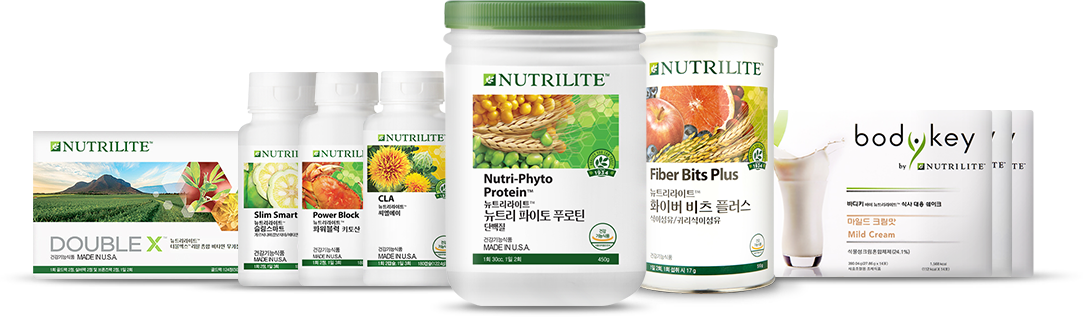
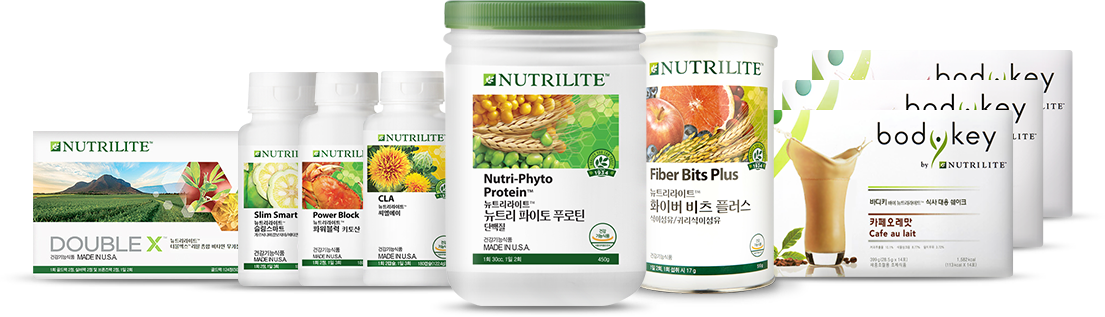
바디키 베이직 세트 수정

diff --git a/_ui/responsive/html/product/nutrition-health/bodykey/NU_2712_10_Bodykey_Basic_Set.html b/_ui/responsive/html/product/nutrition-health/bodykey/NU_2712_10_Bodykey_Basic_Set.html
@@ -79,16 +79,50 @@
 												<div class="com-tit">제품 <span class="green02">구성</span></div>
 
 												<div class="pcomp-area">
-													<div class="pcomp-list deaf01">
+													<div class="pcomp-list deaf03">
 														<div class="comp-info">
 															<div class="comp-box">
 																<div class="code-im">
-																	<span><img src="/_ui/responsive/theme-blue/images/akl_product/nutrition-health/product_bottom_2952_bodykeyshake_mixed_berry.png" alt="바디키 식사대용 쉐이크(믹스베리맛) 상품 이미지"></span>
+																	<span><img src="/_ui/responsive/theme-blue/images/akl_product/nutrition-health/product_bottom_2712_bodykeyshake_cafere.png" alt="바디키 식사대용 쉐이크(카페오레맛)"></span>
 																</div>
 																<dl>
 																	<dt>
 																		<span class="po-txt blue">체중조절용 조제식품</span>
-																		<p class="po-tit">바디키 바이 뉴트리라이트 식사대용 쉐이크 3종</p>
+																		<p class="po-tit">바디키 식사대용 쉐이크(카페오레맛)</p>
+																	</dt>
+																	<dd>
+																		<p>건강한 체중 조절 및 활기찬 생활에 도움을 주는 체중 조절용 제품</p>
+																		<span class="cc-btn"><a href="#" class="bt-akl-blue">제품 자세히 보기</a></span>
+																	</dd>
+																</dl>
+															</div>
+														</div>
+														<div class="comp-info">
+															<div class="comp-box">
+																<div class="code-im">
+																	<span><img src="/_ui/responsive/theme-blue/images/akl_product/nutrition-health/product_bottom_2712_bodykeyshake_mild.png" alt="바디키 식사대용 쉐이크(마일드 크림맛)"></span>
+																</div>
+																<dl>
+																	<dt>
+																		<span class="po-txt blue">체중조절용 조제식품</span>
+																		<p class="po-tit">바디키 식사대용 쉐이크(마일드 크림맛)</p>
+																	</dt>
+																	<dd>
+																		<p>건강한 체중 조절 및 활기찬 생활에 도움을 주는 체중 조절용 제품</p>
+																		<span class="cc-btn"><a href="#" class="bt-akl-blue">제품 자세히 보기</a></span>
+																	</dd>
+																</dl>
+															</div>
+														</div>
+														<div class="comp-info">
+															<div class="comp-box">
+																<div class="code-im">
+																	<span><img src="/_ui/responsive/theme-blue/images/akl_product/nutrition-health/product_bottom_2712_bodykeyshake_mixbury.png" alt="바디키 식사대용 쉐이크(믹스베리맛)"></span>
+																</div>
+																<dl>
+																	<dt>
+																		<span class="po-txt blue">체중조절용 조제식품</span>
+																		<p class="po-tit">바디키 식사대용 쉐이크(믹스베리맛)</p>
 																	</dt>
 																	<dd>
 																		<p>건강한 체중 조절 및 활기찬 생활에 도움을 주는 체중 조절용 제품</p>
